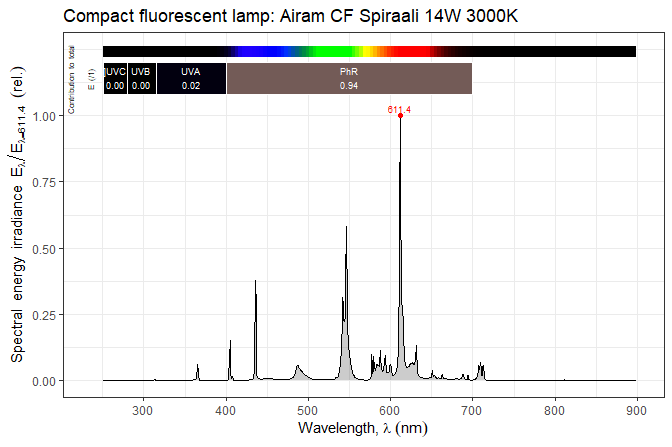
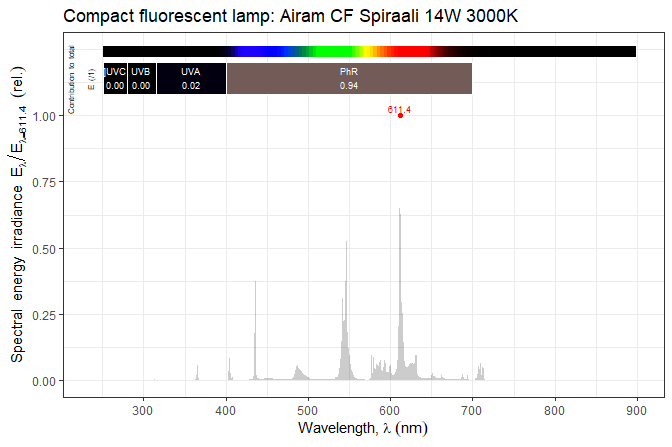
README copyright year 2026

diff --git a/README.md b/README.md
@@ -254,6 +254,6 @@ citation("photobiologyLamps")
 
 ## License
 
-© 2013-2025 Pedro J. Aphalo (<pedro.aphalo@helsinki.fi>). Released under
+© 2013-2026 Pedro J. Aphalo (<pedro.aphalo@helsinki.fi>). Released under
 the GPL, version 2 or greater. This software carries no warranty of any
 kind.
